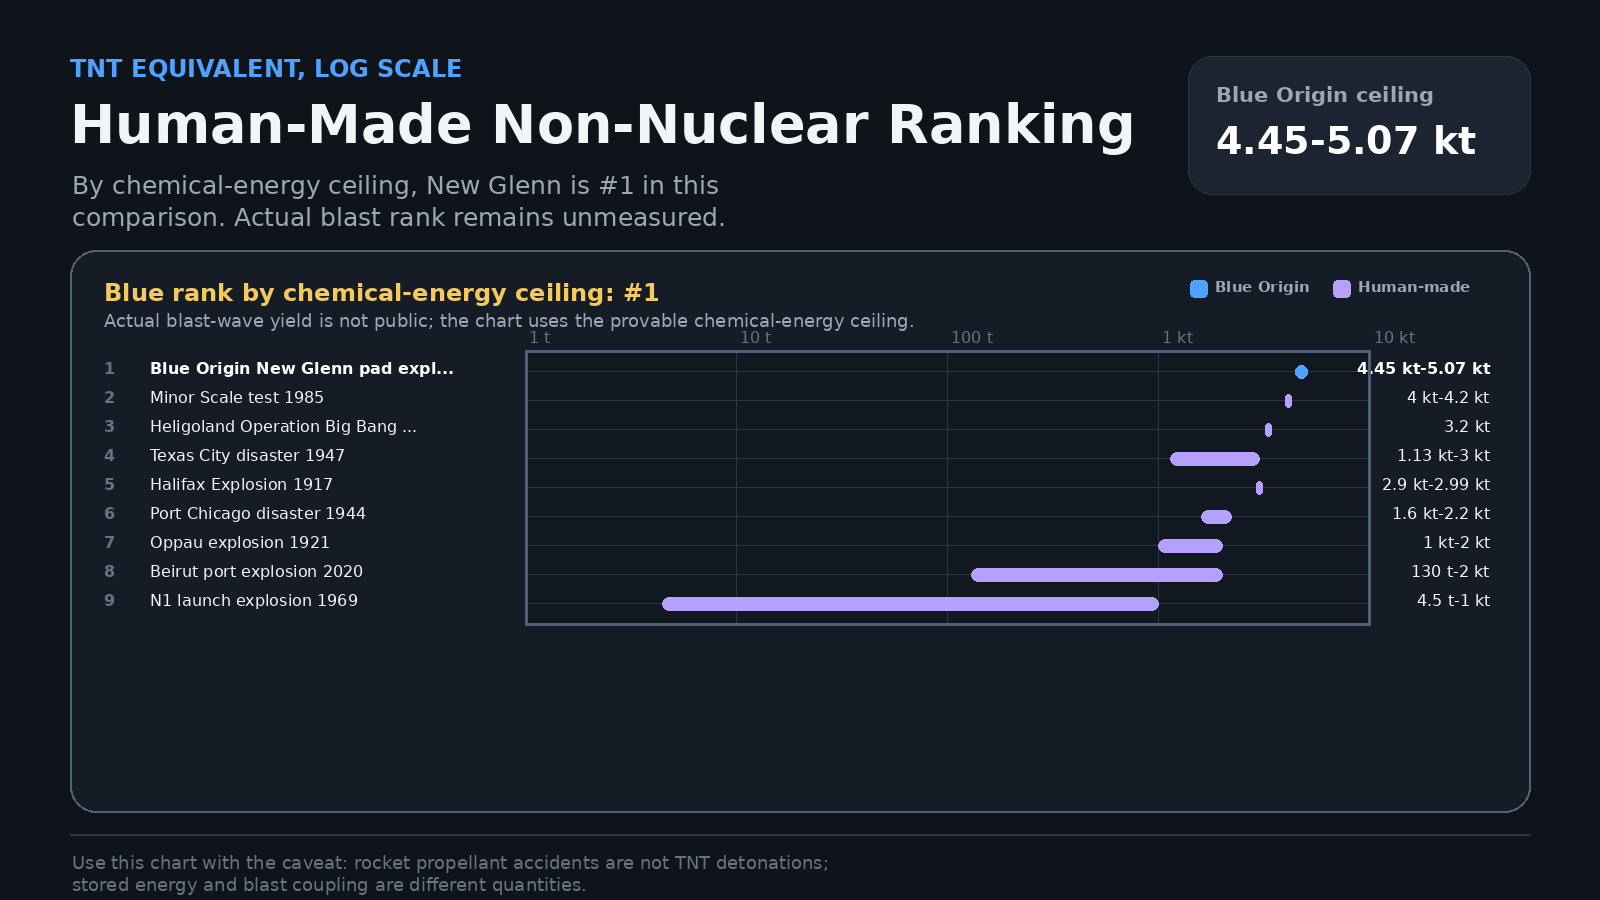
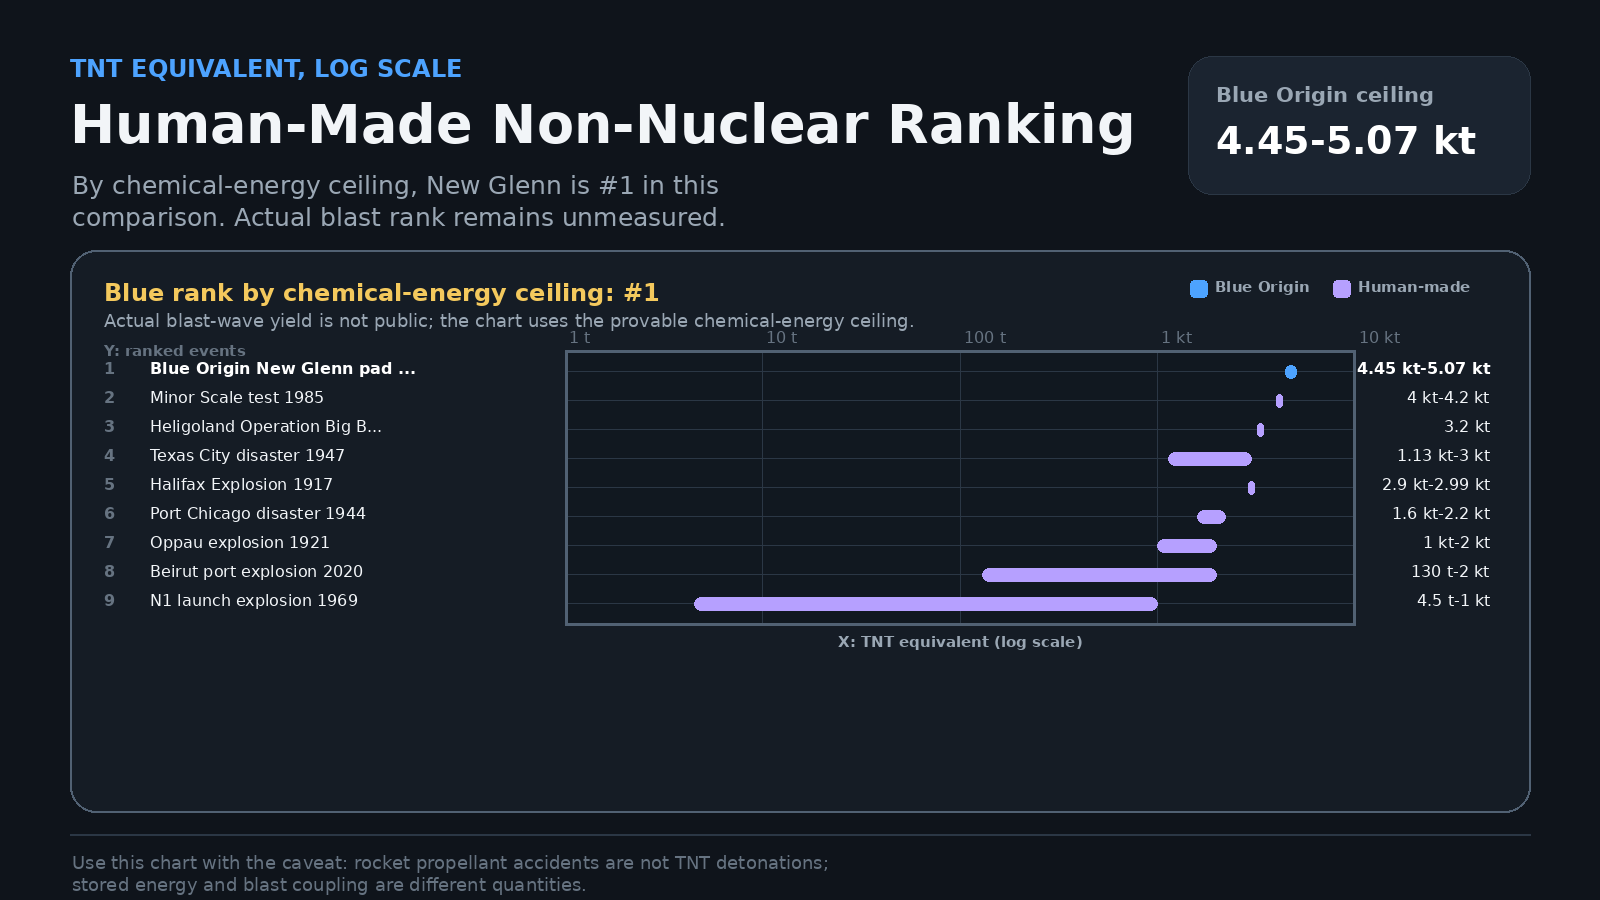
Add axis labels and chart gutter

diff --git a/scripts/generate_graphics.py b/scripts/generate_graphics.py
@@ -154,7 +154,7 @@ def draw_log_chart(filename: str, title: str, subtitle: str, data: list[dict], f
     draw.text((104, 310), "Actual blast-wave yield is not public; the chart uses the provable chemical-energy ceiling.", fill=MUTED, font=font(18))
     draw_legend(draw, legend_items(items), 1470, 278)
 
-    chart_left, chart_right = 525, 1370
+    chart_left, chart_right = 565, 1355
     value_x = 1490
     top, row_h = 360, 29
     min_log = math.floor(math.log10(min(item["kt_min"] for item in items)))
@@ -165,6 +165,7 @@ def draw_log_chart(filename: str, title: str, subtitle: str, data: list[dict], f
     plot_top = top - 10
     plot_bottom = top + row_h * len(items) + 4
 
+    draw.text((104, top - 18), "Y: ranked events", fill=FAINT, font=font(15, True))
     draw.rectangle((chart_left, plot_top, chart_right, plot_bottom), fill="#111820", outline=BORDER, width=3)
 
     for power in range(min_log, max_log + 1, tick_step):
@@ -176,7 +177,7 @@ def draw_log_chart(filename: str, title: str, subtitle: str, data: list[dict], f
         y = top + idx * row_h
         color = category_color(item)
         name_color = WHITE if item.get("blue") else TEXT
-        short_name = item["name"] if len(item["name"]) <= 33 else item["name"][:30] + "..."
+        short_name = item["name"] if len(item["name"]) <= 29 else item["name"][:26] + "..."
         draw.text((104, y - 1), f"{idx + 1}", fill=FAINT, font=font(16, True))
         draw.text((150, y - 1), short_name, fill=name_color, font=font(16, True if item.get("blue") else False))
 
@@ -189,6 +190,14 @@ def draw_log_chart(filename: str, title: str, subtitle: str, data: list[dict], f
         draw.text((value_x, y - 1), fmt_range(item["kt_min"], item["kt_max"]), fill=name_color, font=font(16, True if item.get("blue") else False), anchor="ra")
 
     draw.rectangle((chart_left, plot_top, chart_right, plot_bottom), outline=BORDER, width=3)
+    x_label = "X: TNT equivalent (log scale)"
+    draw.text(
+        (chart_left + (chart_right - chart_left) / 2, plot_bottom + 8),
+        x_label,
+        fill=MUTED,
+        font=font(15, True),
+        anchor="ma",
+    )
 
     draw_footer(draw, footer)
     img.save(OUT_DIR / filename, quality=95)